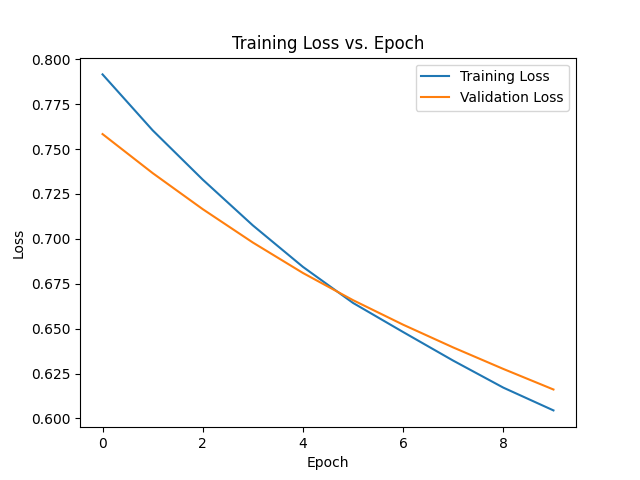
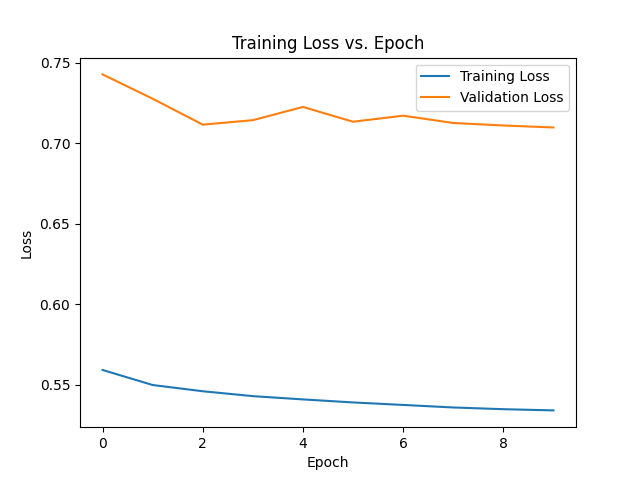
+ First_MLP.py oversampling running version

diff --git a/models/Original_MLP/First_MLP.py b/models/Original_MLP/First_MLP.py
@@ -14,6 +14,8 @@ from torch.utils.data import DataLoader, TensorDataset
 from torch.utils.data.sampler import WeightedRandomSampler
 from sklearn import metrics
 from sklearn.utils import resample
+import scipy.sparse as sp
+
 
 dtype_dict = {
     'song_id': str,
@@ -148,28 +150,71 @@ print("######NETWORK DEFINED######")
 y_train_cpy = y_train.copy()
 y_train_cpy = y_train_cpy#.to(device)
 
-# convert to Pytorch tensor
-X_train = torch.tensor(X_train.toarray(), dtype=torch.float32)
-X_test = torch.tensor(X_test.toarray(), dtype=torch.float32)
-y_train = torch.tensor(y_train, dtype=torch.float32)
-y_test = torch.tensor(y_test, dtype=torch.float32)
-print("######CONVERSION TO TENSOR######")
-
 #y_train_int = y_train.to(torch.int64)
 y_train_cpy = torch.tensor(y_train_cpy, dtype=torch.int64)
 y_train_flat = y_train_cpy.flatten()
 
 # Count the number of samples in each class
-class_counts = torch.bincount(y_train_flat.to(device))
+class_counts = torch.bincount(y_train_flat)#.to(device))
+class_counts = np.array(class_counts)
 
 # Determine the maximum class count
 #max_class_count = class_counts.max().item()
-total_samples = class_counts.sum().item()
+#total_samples = class_counts.sum().item()
 # Compute weights for each sample based on class imbalance
-weights = total_samples / class_counts
+#weights = total_samples / class_counts
 #weights = weights.numpy()
-print("weights for upsampling: ", weights)
-print(class_counts)
+#print("weights for upsampling: ", weights)
+print("class count: ", class_counts)
+
+
+
+#upsampling:
+difference = class_counts.max() - class_counts.min()
+difference = 674301 - 8969
+# Assuming `X_train` is your original CSR matrix
+num_rows_to_duplicate = difference // sum(y_train)  # Number of rows to duplicate per positive instance
+
+# Filter indices of positive instances
+positive_indices = [i for i, label in enumerate(y_train) if label == 1]
+
+# Get rows corresponding to positive instances
+rows_to_duplicate = sp.csr_matrix(X_train.getrow(positive_indices[0]))
+
+for i in positive_indices[1:]:
+    row = sp.csr_matrix(X_train.getrow(i))
+    rows_to_duplicate = sp.vstack([rows_to_duplicate, row])
+
+#rows_to_duplicate = sp.vstack([X_train.getrow(i) for i in positive_indices])
+
+# Duplicate rows
+
+duplicated_rows = sp.vstack([rows_to_duplicate])
+if num_rows_to_duplicate >= 2:
+    #num_rows_to_duplicate -= 1
+    for i in range(int(num_rows_to_duplicate[0]) - 1):
+        duplicated_rows = sp.vstack([duplicated_rows, rows_to_duplicate])
+
+
+# Stack duplicated rows with the original matrix
+X_train_upsampled = sp.vstack([X_train, duplicated_rows])
+
+x = int(num_rows_to_duplicate[0]) * len(positive_indices)
+
+# Create an array of shape (x, 1) with all elements as 1
+rows_of_ones = np.ones((x, 1))
+
+# Append rows_of_ones to original_array
+y_train_upsampled = np.concatenate((y_train, rows_of_ones), axis=0)
+print("######UPSAMPLING DONE######")
+
+
+# convert to Pytorch tensor
+X_train = torch.tensor(X_train_upsampled.toarray(), dtype=torch.float32)
+X_test = torch.tensor(X_test.toarray(), dtype=torch.float32)
+y_train = torch.tensor(y_train_upsampled, dtype=torch.float32)
+y_test = torch.tensor(y_test, dtype=torch.float32)
+print("######CONVERSION TO TENSOR######")
 
 # Move the data to the GPU if available
 X_train = X_train.to(device)
@@ -182,7 +227,7 @@ print(X_train.size())
 model = MLPClassifier(X_train.size())
 
 # Define loss function and optimizer (same as TensorFlow example)
-loss_fn = nn.BCEWithLogitsLoss(pos_weight=weights)#BCELoss(weights=weights)#nn.MSELoss()
+loss_fn = nn.BCEWithLogitsLoss()#pos_weight=weights)#BCELoss(weights=weights)#nn.MSELoss()
 loss_fn_mae = nn.L1Loss()
 optimizer = torch.optim.Adam(model.parameters())
 
@@ -197,7 +242,7 @@ optimizer = torch.optim.Adam(model.parameters())
 
 #X_train_oversampled, y_train_oversampled = resample(X_train, y_train, replace=True,
 #                                                    random_state=42,
-#                                                    n_samples=int(len(X_train * 2)), weights=we)
+#                                                    n_samples=int(len(X_train * 2)), weights=weights)
 
 # Create DataLoader with oversampled data
 dataset_train = TensorDataset(X_train, y_train)
@@ -226,6 +271,8 @@ for epoch in range(10):  # Adjust epochs as needed
     for X_batch, y_batch in trainloader:
         # Forward pass
         y_pred = model(X_batch)
+        #print("y_batch: ", y_batch)
+        #print("y_pred: ", y_pred)
         loss = loss_fn(y_pred, y_batch)
 
         for label in y_batch:
@@ -257,7 +304,7 @@ for epoch in range(10):  # Adjust epochs as needed
         epoch_val_loss = val_loss.item()
         val_losses.append(epoch_val_loss)
         val_accs.append(epoch_val_acc)
-        print(f"Epoch [{epoch + 1}/60], Training Loss: {avg_epoch_train_loss:.4f}, Validation Loss: {epoch_val_loss:.4f}, Validation Accuracy: {epoch_val_acc:.4f}")
+        print(f"Epoch [{epoch + 1}/10], Training Loss: {avg_epoch_train_loss:.4f}, Validation Loss: {epoch_val_loss:.4f}, Validation Accuracy: {epoch_val_acc:.4f}")
 
 print("######TRAINING DONE######")
 
